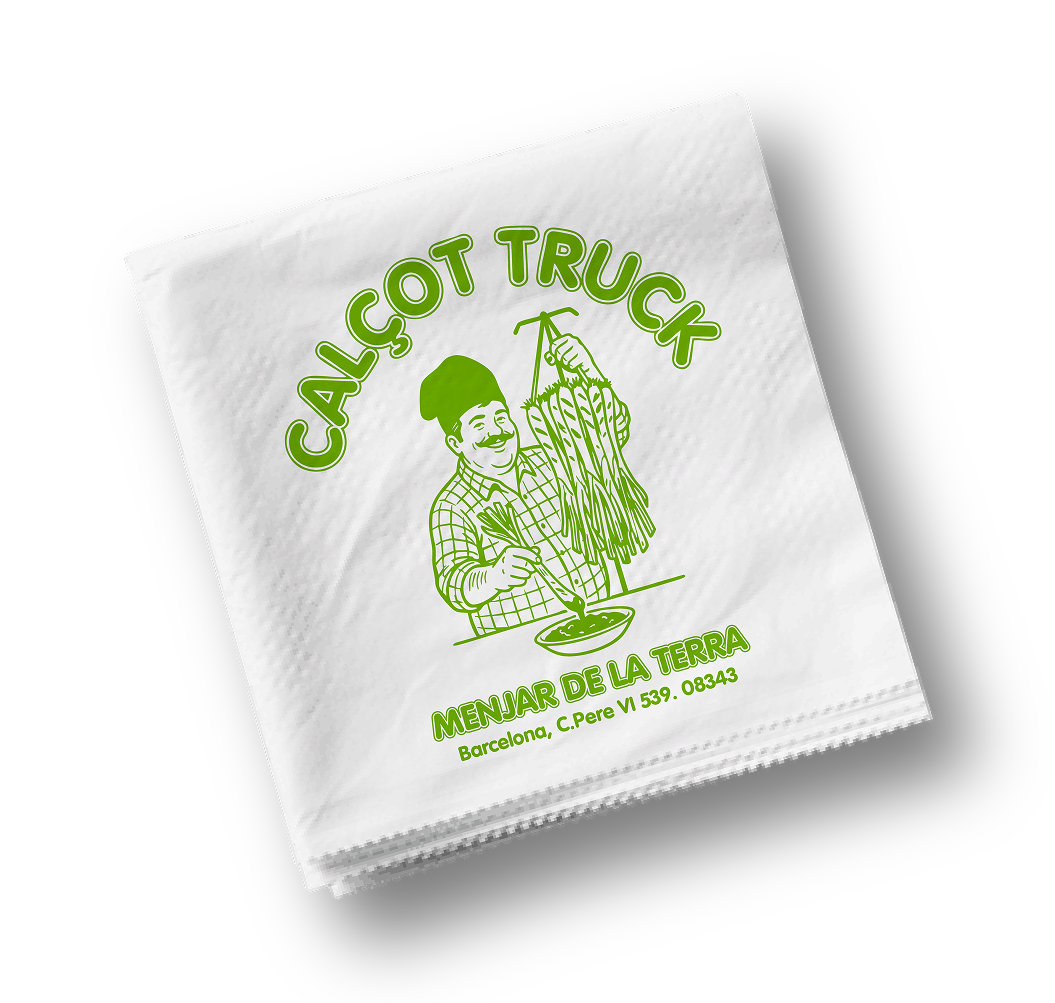
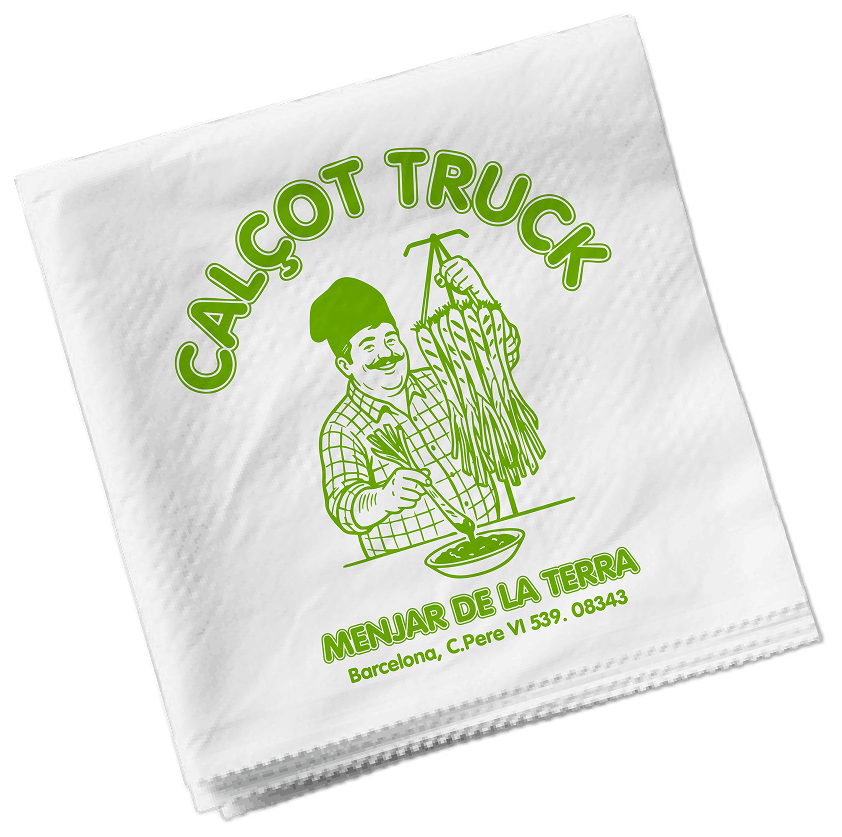
Remove baked-in white mockup background from Calçot/Verbena home covers
Both cover PNGs had an opaque white "card" background behind the product
shot rather than true transparency, which showed as a visible white box
(with its own drop-shadow) in the home hero pile. Ran background removal
to make them properly transparent, then cropped to the tight content
bounding box and adjusted the hero scrap dimensions to match the new
aspect ratio so the box-shadow hugs the actual subject again.

Changed region(s): [[0.0618, 0.0311, 0.9881, 0.994], [0.6176, 0.0621, 0.6485, 0.0932]]

diff --git a/index.html b/index.html
@@ -654,10 +654,10 @@
       <span class="eyebrow" data-i18n="home.eyebrow">Proyectos seleccionados</span>
       <span class="count">01 — 06</span>
     </div>
-    <a class="scrap" href="proyecto-calcot.html" style="width:189px; height:180px; background-image:url('PORTADAS PROYECTOS/CALÇOTTRUCK_PORTADA.png'); background-size:contain;">
+    <a class="scrap" href="proyecto-calcot.html" style="width:185px; height:184px; background-image:url('PORTADAS PROYECTOS/CALÇOTTRUCK_PORTADA.png'); background-size:contain;">
       <div class="scrap-cap"><span class="cat">Branding</span>Calçot Truck</div>
     </a>
-    <a class="scrap" href="proyecto-verbena.html" style="width:220px; height:122px; background-image:url('PORTADAS PROYECTOS/VERBENA_PORTADA.png'); background-size:contain;">
+    <a class="scrap" href="proyecto-verbena.html" style="width:220px; height:112px; background-image:url('PORTADAS PROYECTOS/VERBENA_PORTADA.png'); background-size:contain;">
       <div class="scrap-cap"><span class="cat">Editorial</span>Verbena</div>
     </a>
     <a class="scrap" href="proyecto-parisfont.html" style="width:161px; height:200px; background-image:url('PORTADAS PROYECTOS/PARIS_PORTADA.png'); background-size:contain;">
